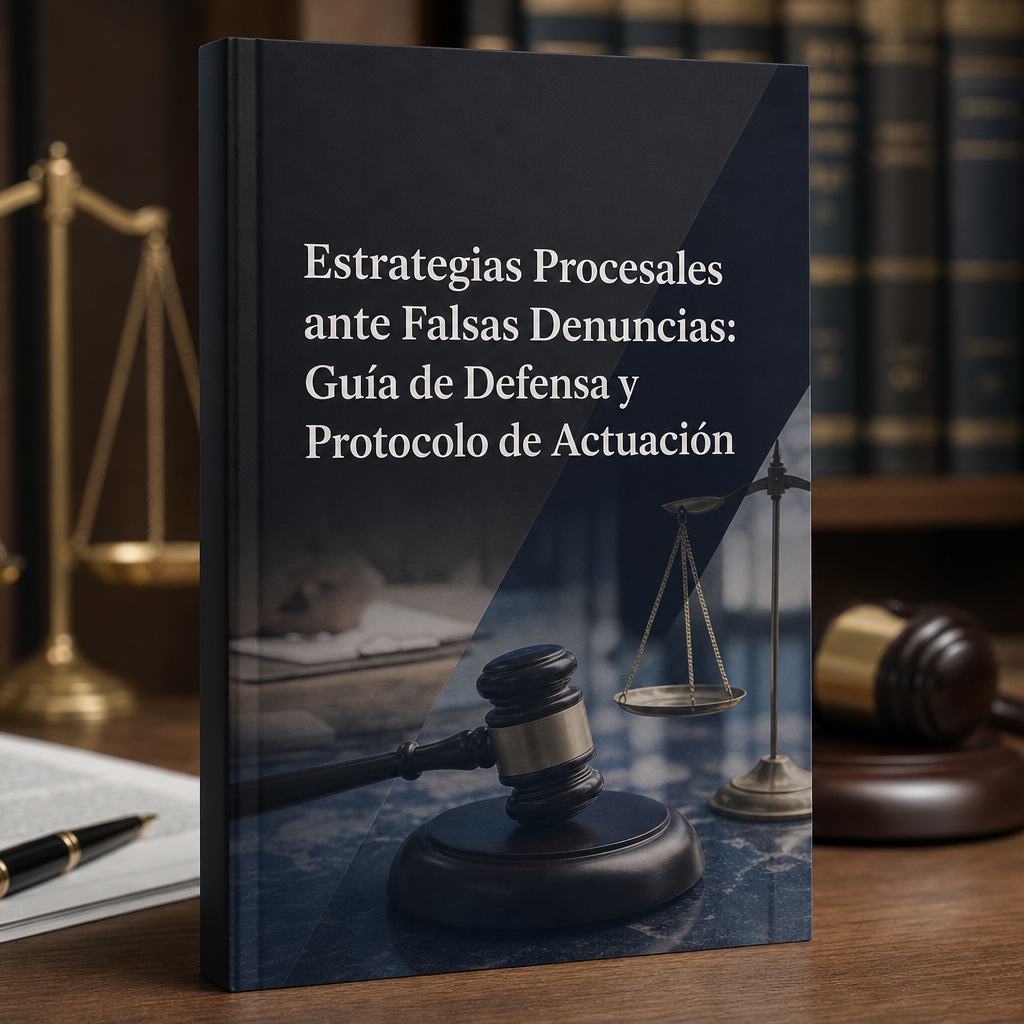
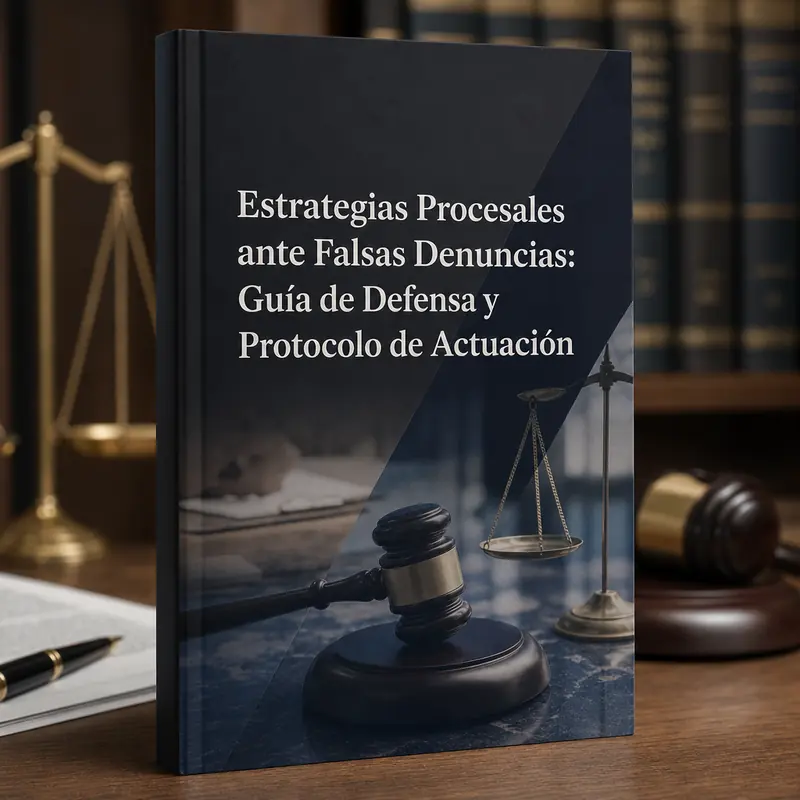
Optimizar imagenes para mejorar LCP y rendimiento
mockup9.png (3 MB, 1254x1254) pasa a mockup9.webp (132 KB, 900x900),
redimensionado al tamano real de visualizacion. Las 5 imagenes de
bonos bajan de ~1 MB a ~35-48 KB cada una. Peso total de imagenes:
~7.8 MB -> 340 KB. Actualiza referencias y atributos width/height.

diff --git a/src/App.tsx b/src/App.tsx
@@ -7,7 +7,7 @@ const PAGE_TITLE =
   "Kit Operativo de Práctica Jurídica — Edición 2026";
 const PAGE_DESC =
   "Más de 300 modelos de escritos, doctrina y jurisprudencia organizados por fueros: Familia, Civil, Laboral y Comercial. Tu base documental lista para trabajar desde el primer día, en PDF descargable.";
-const HERO_IMAGE = `${import.meta.env.BASE_URL}mockup9.png`;
+const HERO_IMAGE = `${import.meta.env.BASE_URL}mockup9.webp`;
 
 const SITE_URL = "https://kitoperativodepracticajuridica.tupuntodigital.shop";
 function setMeta(attr: "name" | "property", key: string, content: string) {

diff --git a/src/components/PricingSection.tsx b/src/components/PricingSection.tsx
@@ -21,10 +21,10 @@ export function PricingSection() {
 
         <div className="relative inline-block mb-2 w-full max-w-md mx-auto">
           <img
-            src={`${import.meta.env.BASE_URL}mockup9.png`}
+            src={`${import.meta.env.BASE_URL}mockup9.webp`}
             alt="Kit Operativo de Práctica Jurídica — Edición 2026"
-            width={1254}
-            height={1254}
+            width={900}
+            height={900}
             loading="lazy"
             decoding="async"
             className="w-full h-auto rounded-2xl shadow-2xl shadow-black/20"

diff --git a/src/components/HeroSection.tsx b/src/components/HeroSection.tsx
@@ -66,9 +66,9 @@ export function HeroSection() {
           className="mx-auto mb-3 w-full max-w-[380px] sm:max-w-sm md:max-w-md lg:max-w-lg xl:max-w-lg"
         >
           <img
-            src={`${import.meta.env.BASE_URL}mockup9.png`}
-            width={1254}
-            height={1254}
+            src={`${import.meta.env.BASE_URL}mockup9.webp`}
+            width={900}
+            height={900}
             loading="eager"
             decoding="async"
             alt="Kit Operativo de Práctica Jurídica — Edición 2026"

diff --git a/src/components/BonusesSection.tsx b/src/components/BonusesSection.tsx
@@ -77,8 +77,8 @@ export function BonusesSection() {
                 <img
                   src={`${import.meta.env.BASE_URL}${b.image}`}
                   alt={`Bono ${b.num}: ${b.title}`}
-                  width={1024}
-                  height={1024}
+                  width={800}
+                  height={800}
                   loading="lazy"
                   decoding="async"
                   className="w-full h-full object-contain"
